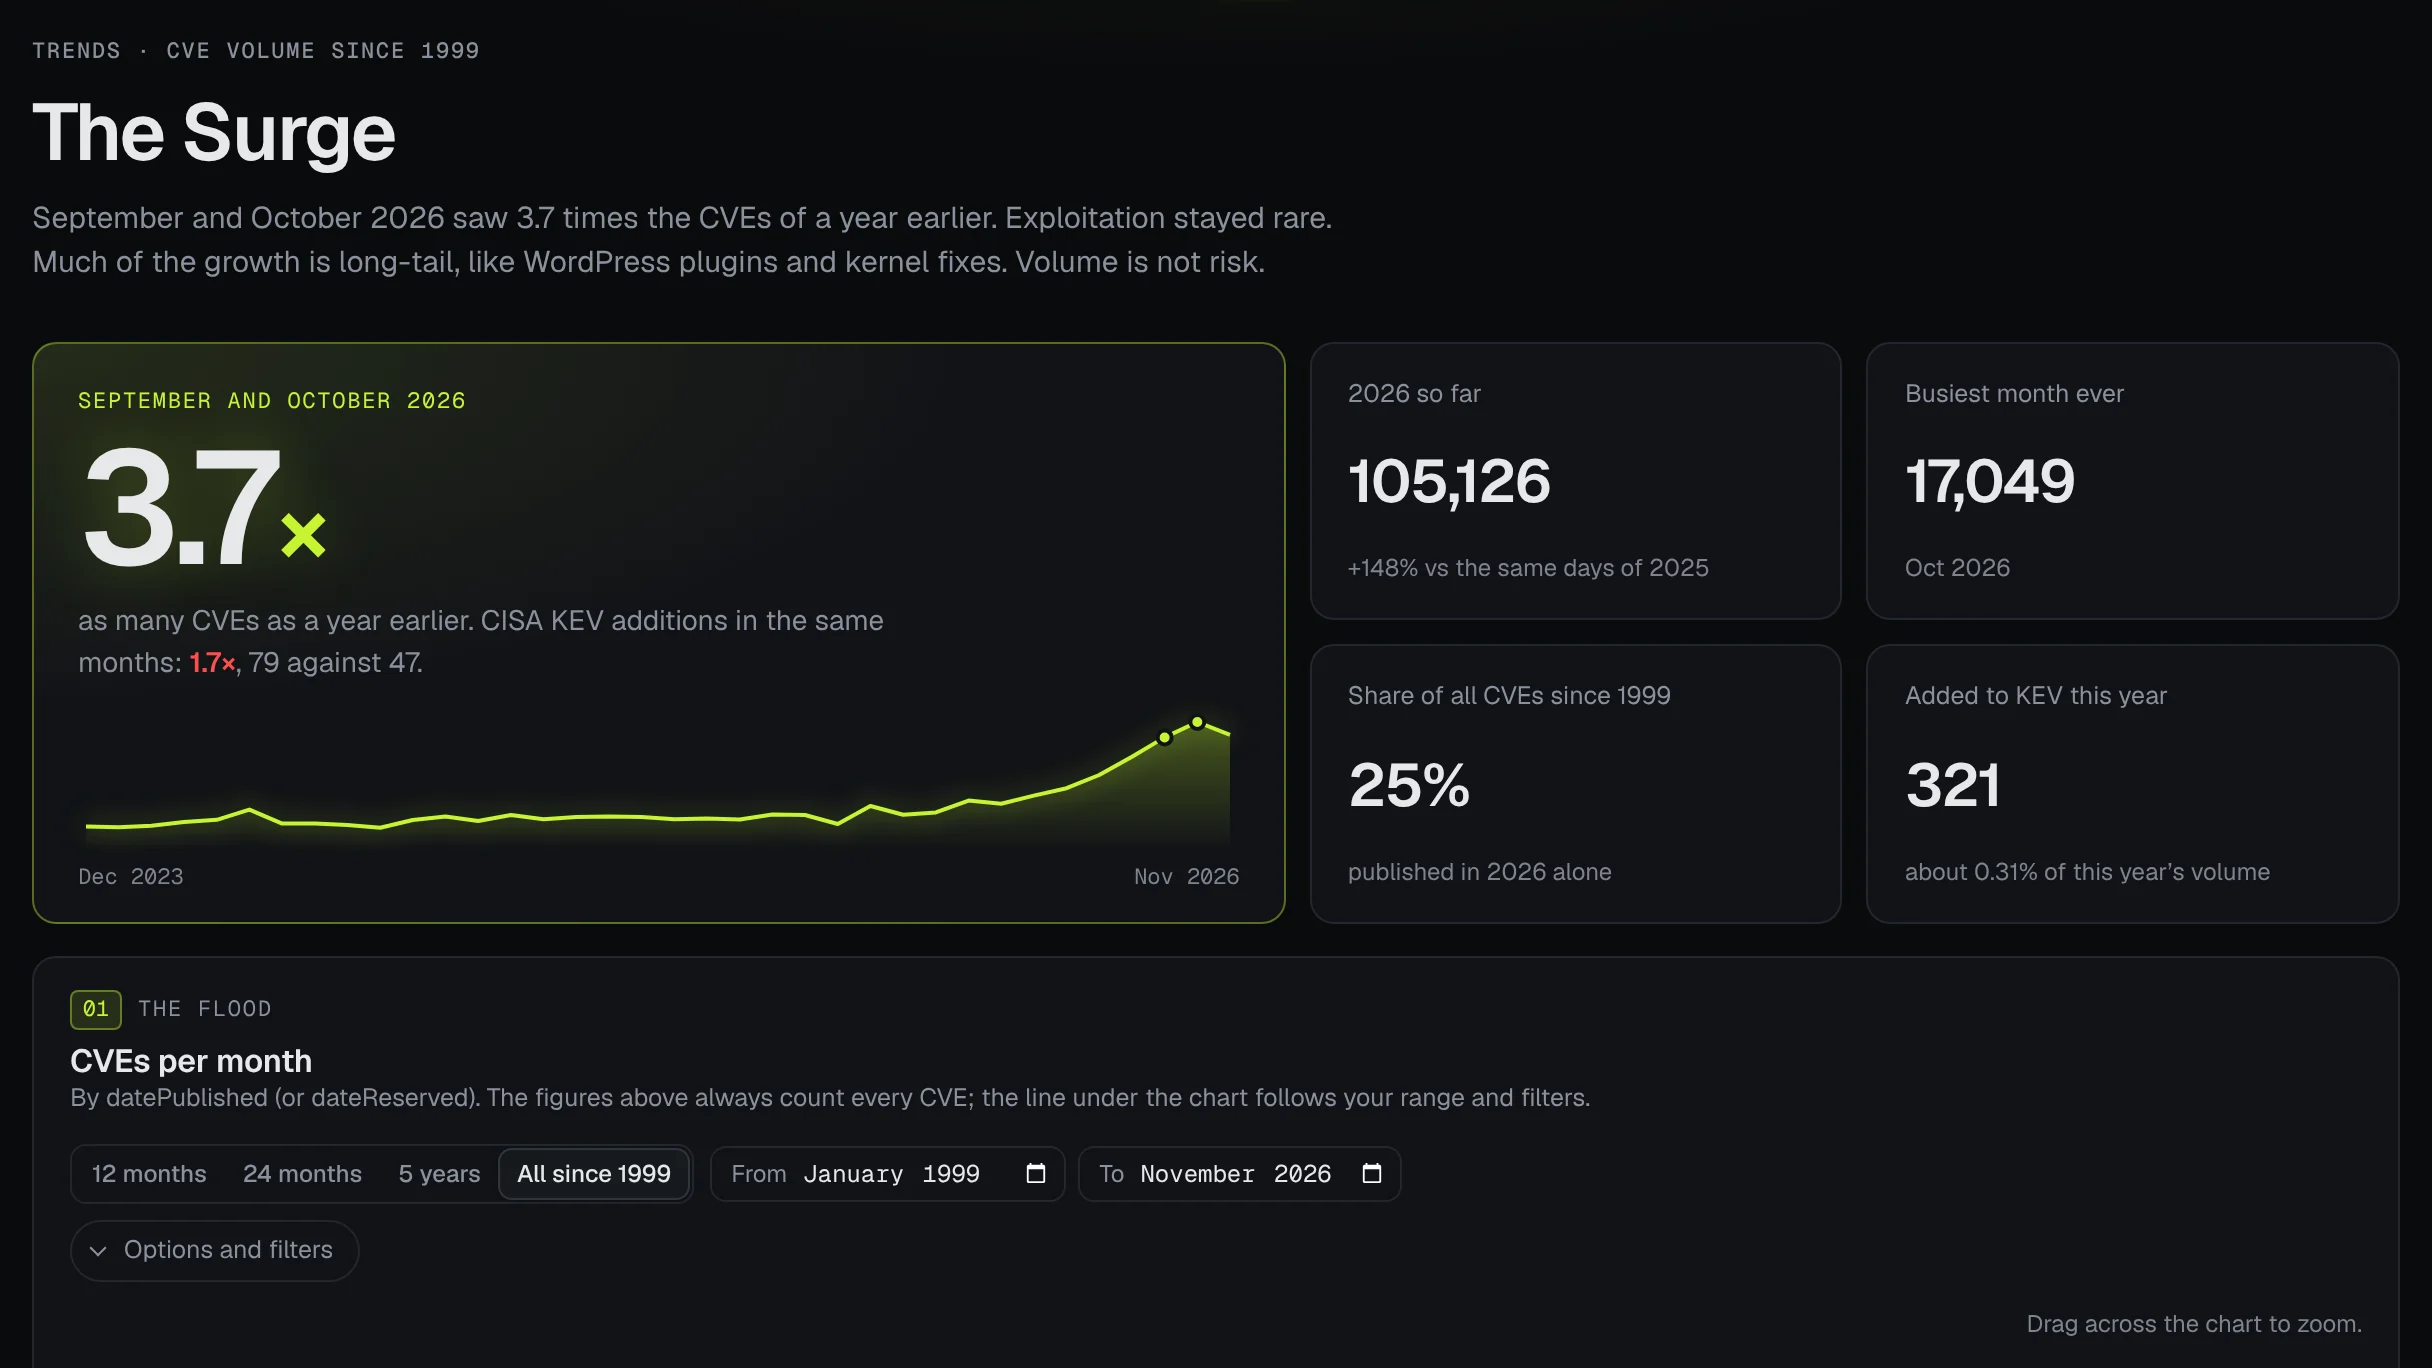
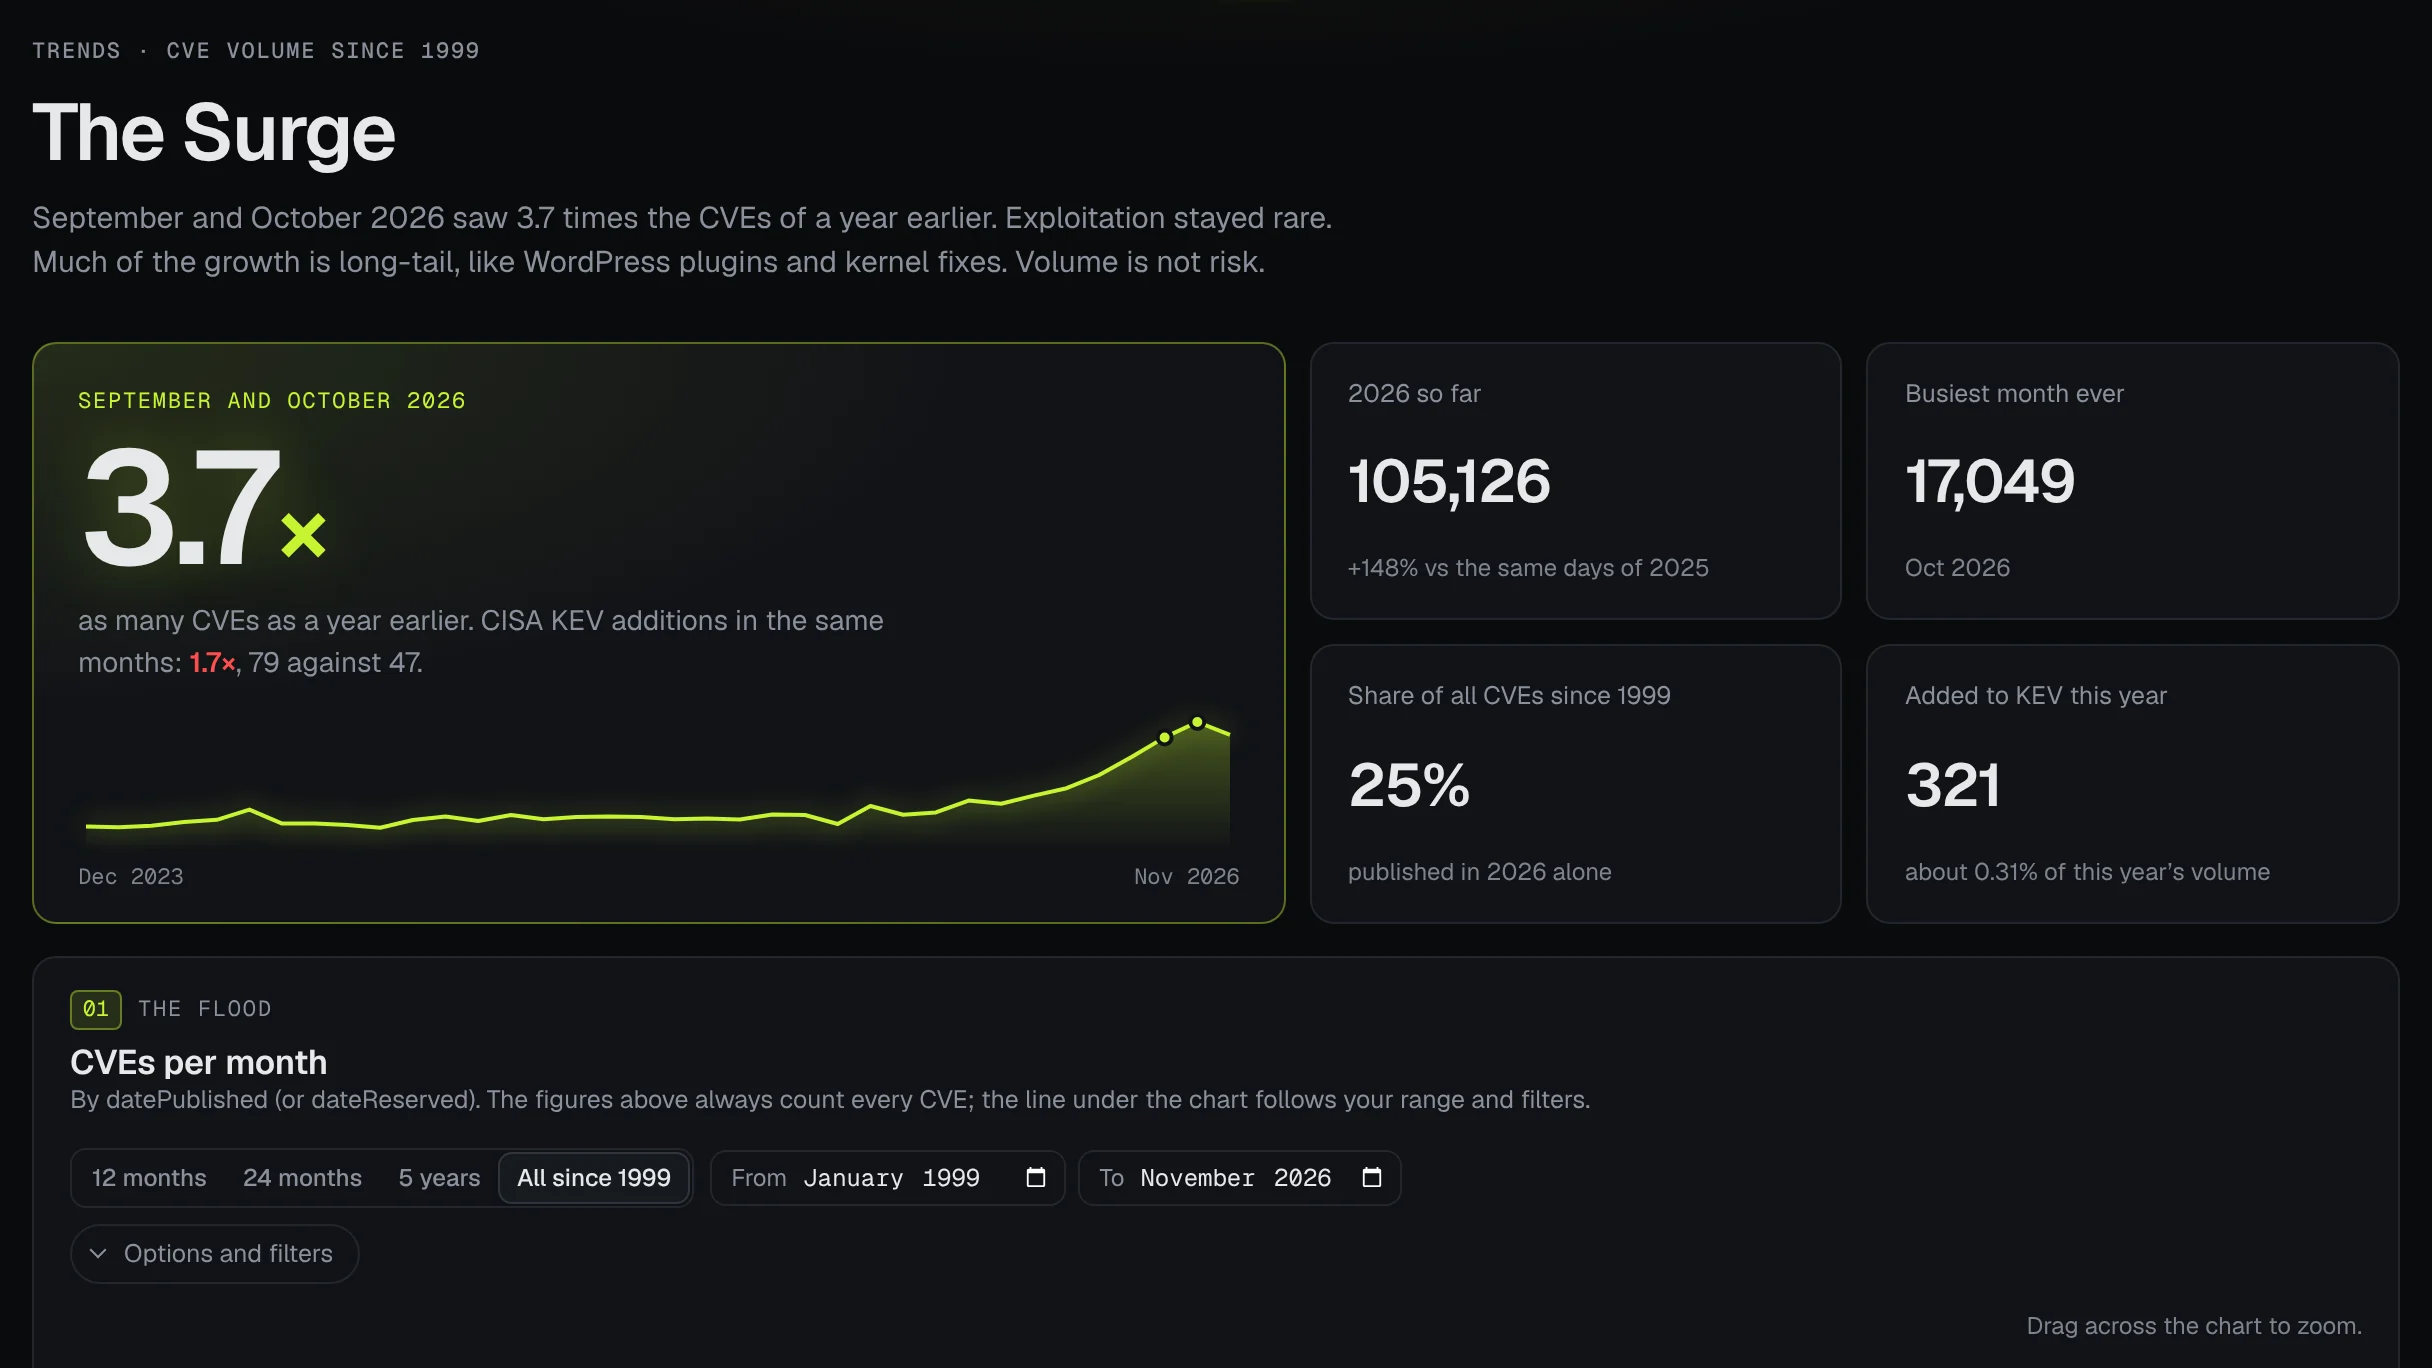
One spacing and title system across the site
An audit of every page:
- Page heads (eyebrow, 40 px title, 15 px lede, 28 px to the content) were already the same
  everywhere; reading pages (Receipts, Method, MCP, API) already spaced sections 40 px apart.
- Titled groups: 28 px apart, the same as under a page head and as on Woke Up and KEV Clock.
  Today used 24.
- Controls: 12 px above what they control, as on Check and Woke Up. Explore used 14.
- Section-level titles: 17 px. The Trends section titles were 16 and Check's main card titles 15.
- Names: the API page, headed Feeds & API, gets the eyebrow "API · ..." so it ties to its
  nav label, as Trends does for The Surge.

README: the Trends and Heating up screenshots, recorded again.

Claude-Session: https://claude.ai/code/session_014y4cbadidDdMh4wQrQPiJw

diff --git a/site/src/styles/pages.css b/site/src/styles/pages.css
@@ -410,13 +410,14 @@
   grid-area: batches;
 }
 
-/* One rhythm on Today: 16 px between panels (the grid gap), 24 px before a section that opens
-   with a bare title (Everything in CVErdict, Signal and the side column beside it, Patch days). */
+/* One rhythm, as on every page: 16 px between panels (the grid gap), and 28 px, the gap under a
+   page head, before a section that opens with a bare title (Everything in CVErdict, Signal and
+   the side column beside it, Patch days). */
 .today__grid > .tour,
 .today__grid > .today__feed,
 .today__grid > .today__side,
 .today__grid > .today__batches {
-  margin-top: 8px;
+  margin-top: 12px;
 }
 
 .hero {
@@ -1431,7 +1432,7 @@
   z-index: 10;
   display: grid;
   gap: 8px;
-  margin: 0 calc(var(--gutter) * -1) 14px;
+  margin: 0 calc(var(--gutter) * -1) 12px;
   padding: 10px var(--gutter);
   border-bottom: 1px solid var(--border);
   background: var(--glass);
@@ -3048,7 +3049,7 @@ circle.dc__kev {
 
 .check__paneltitle {
   margin: 0;
-  font-size: 15px;
+  font-size: 17px;
   font-weight: 600;
 }
 
@@ -4019,7 +4020,7 @@ circle.dc__kev {
 }
 
 .sect__title {
-  font-size: 16px;
+  font-size: 17px;
 }
 
 .sect__more {

diff --git a/site/src/pages/Feeds.tsx b/site/src/pages/Feeds.tsx
@@ -80,7 +80,7 @@ export default function Feeds() {
   return (
     <div class="page page--feeds">
       <header class="page__head">
-        <p class="eyebrow">Open data, refreshed hourly</p>
+        <p class="eyebrow">API · Open data, refreshed hourly</p>
         <h1 class="page__title" tabIndex={-1}>
           Feeds &amp; API
         </h1>
